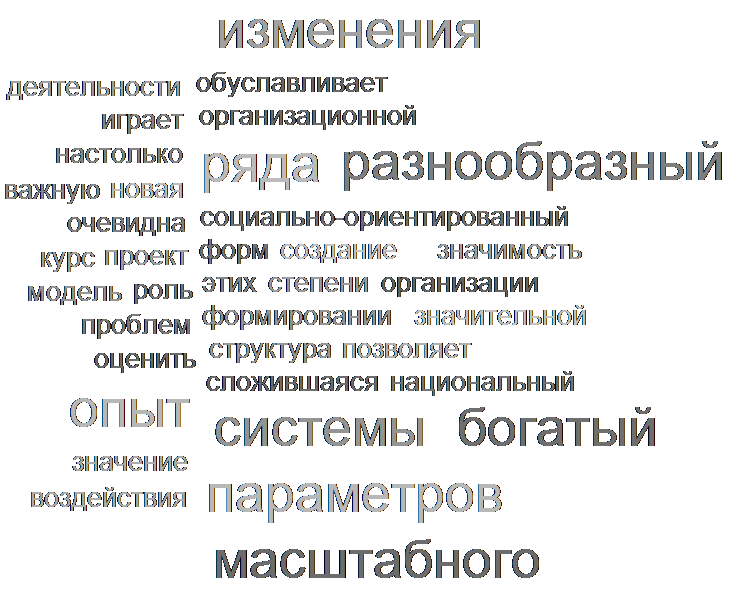
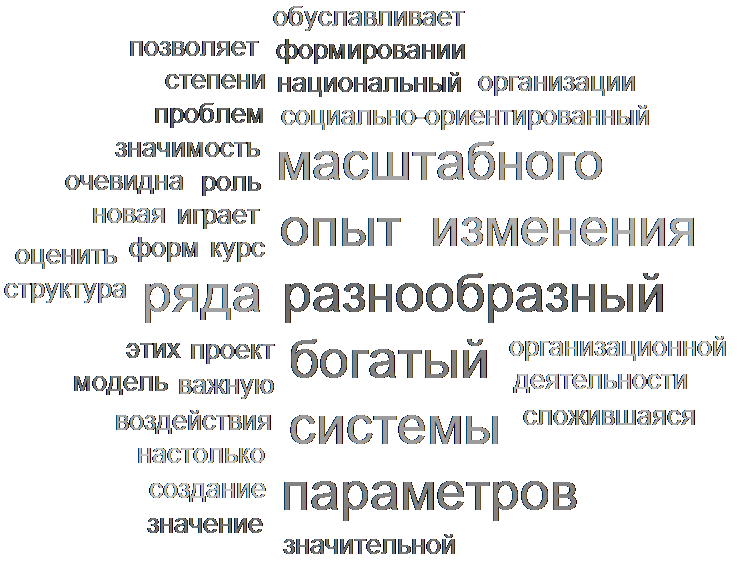
fix

Changed region(s): [[0.0, 0.0, 0.9986, 0.9964]]

diff --git a/TagCloud/TagCloudServicesFactory.cs b/TagCloud/TagCloudServicesFactory.cs
@@ -7,6 +7,8 @@ using TagCloud.WordFilters;
 using TagCloudApplication;
 using TagCloudTests;
 using ColorConverter = TagCloud.Extensions.ColorConverter;
+using System.Linq;
+using System.Reflection;
 
 namespace TagCloud;
 
@@ -31,14 +33,18 @@ public static class TagCloudServicesFactory
                 provider.Resolve<IColorSelector>()
             )).As<ICloudDrawer>().SingleInstance();
         
-        if (options.ColorScheme == "gray")
-            builder.RegisterType<RandomColorSelector>().As<IColorSelector>().SingleInstance();
-        if (options.ColorScheme == "random")
-            builder.RegisterType<GrayScaleColorSelector>().As<IColorSelector>().SingleInstance();
-        else if (ColorConverter.TryConvert(options.ColorScheme, out var color))
-            builder.Register(provider => new ConstantColorSelector(color)).As<IColorSelector>().SingleInstance();
-        else
-            builder.Register(provider => new ConstantColorSelector(Color.Black)).As<IColorSelector>().SingleInstance();
+        builder.RegisterAssemblyTypes(Assembly.GetExecutingAssembly())
+            .Where(t => t.IsAssignableTo<IColorSelector>())
+            .As<IColorSelector>()
+            .SingleInstance();
+
+        builder.Register<IColorSelector>(context =>
+        {
+            var colorSelectors = context.Resolve<IEnumerable<IColorSelector>>();
+            var selector = colorSelectors.FirstOrDefault(s => s.IsMatch(options));
+            
+            return selector ?? new ConstantColorSelector(Color.Black);
+        }).SingleInstance(); //при ресолве будет использоваться последний зарегистрированный класс
 
         builder.RegisterType<MyStemWordFilter>().As<IWordFilter>().SingleInstance();
         

diff --git a/TagCloud/Option.cs b/TagCloud/Option.cs
@@ -10,7 +10,7 @@ public class Options
     [Option('s', "source", HelpText = "Set source path.", Default = @"..\..\..\Results\text.txt")]
     public string SourcePath { get; set; }
     
-    [Option('n', "name", HelpText = "Set name.", Default = "default.png")]
+    [Option('n', "name", HelpText = "Set name of result picture.", Default = "default.png")]
     public string Name { get; set; }
         
     [Option('c', "color", 
@@ -18,11 +18,12 @@ public class Options
                    Set color.
                    random - Random colors
                    #F0F0F0 - Color hex code
+                   gray - grayscale
                    """, 
         Default = "random")]
     public string ColorScheme { get; set; }
     
-    [Option('f', "font", HelpText = "Set font.", Default = "Arial")]
+    [Option('f', "font", HelpText = "Set font family", Default = "Arial")]
     public string Font { get; set; }
     
     [Option("size", HelpText = "Set font size.", Default = 20)]
@@ -49,7 +50,7 @@ public class Options
         Default = new[] { "PR", "PART", "CONJ", "INTJ" })]
     public string[] UnusedPartsOfSpeech { get; set; }
     
-    [Option("density", HelpText = "Set density.", Default = 0.1)]
+    [Option("density", HelpText = "Set spiral step.", Default = 0.1)]
     public double Density { get; set; }
     
     [Option("width", HelpText = "Set width.", Default = 100)]

diff --git a/TagCloudTests/TestData/FileTextHandlerTestData.cs b/TagCloudTests/TestData/FileTextHandlerTestData.cs
@@ -10,20 +10,19 @@ public class FileTextHandlerTestData
         {
             yield return new TestCaseData(
                     "два\nодин\nдва\nа\nтри\nтри\nтри",
-                    new List<TextData>
+                    new Dictionary<string, int>()
                     {
-                        new() { Value = "один", Weight = 1 }, new() { Value = "два", Weight = 2 },
-                        new() { Value = "три", Weight = 3 }
+                        { "один", 1 }, { "два", 2 }, { "три", 3 }
                     }
                 )
                 .SetName("ShouldExcludeConjAndNotExcludeOtherWords");
-            yield return new TestCaseData("и а или", new List<TextData>())
+            yield return new TestCaseData("и а или", new Dictionary<string, int>())
                 .SetName("ShouldExcludeAllConj");
             yield return new TestCaseData(
                     "КАПС\nКаПС\nКАПс",
-                    new List<TextData>
+                    new Dictionary<string, int>()
                     {
-                        new() { Value = "капс", Weight = 3 }
+                        { "капс", 3 }
                     }
                 )
                 .SetName("ShouldTransformToLowerCase");

diff --git a/TagCloudTests/ColorConverterTests.cs b/TagCloudTests/ColorConverterTests.cs
@@ -1,16 +1,25 @@
 using System.Drawing;
-using TagCloudTests.TestData;
 using ColorConverter = TagCloud.Extensions.ColorConverter;
 
 namespace TagCloudTests;
 
 public class ColorConverterTests
 {
-    [TestCaseSource(typeof(ColorConverterTestData), nameof(ColorConverterTestData.RightCases))]
+    public static IEnumerable<TestCaseData> RightCases
+    {
+        get
+        {
+            yield return new TestCaseData("#FFFFFF").Returns(Color.FromArgb(255, 255, 255));
+            yield return new TestCaseData("#FF0000").Returns(Color.FromArgb(255, 0, 0));
+            yield return new TestCaseData("#808080").Returns(Color.FromArgb(128, 128, 128));
+            yield return new TestCaseData("#123456").Returns(Color.FromArgb(18, 52, 86));
+        }
+    }
+
+    [TestCaseSource(typeof(ColorConverterTests), nameof(RightCases))]
     public Color Converter_ShouldConvertStringToColor_WhenStringInRightFormat(string hexString)
     {
-        if (ColorConverter.TryConvert(hexString, out var color))
-            return color;
-        throw new Exception();
+        ColorConverter.TryConvert(hexString, out var color).Should().BeTrue();
+        return color;
     }
 }

diff --git a/TagCloud/WordFilters/MyStemWordFilter.cs b/TagCloud/WordFilters/MyStemWordFilter.cs
@@ -14,13 +14,14 @@ public class MyStemWordFilter : IWordFilter
         "INTJ" // междометие
     };
 
-    public IEnumerable<TextData> ExcludeWords(IEnumerable<TextData> data)
+    public Dictionary<string, int> ExcludeWords(Dictionary<string, int> counts)
     {
         var stem = new MyStem();
         stem.Parameters = "-lig";
-        foreach (var word in data)
+        var newCounts = new Dictionary<string, int>();
+        foreach (var (word, count) in counts)
         {
-            var analysis = stem.Analysis(word.Value);
+            var analysis = stem.Analysis(word);
             if (string.IsNullOrEmpty(analysis))
                 continue;
 
@@ -32,7 +33,9 @@ public class MyStemWordFilter : IWordFilter
 
             if (partsOfSpeech.Any(ForbidenSpeechParts.Contains))
                 continue;
-            yield return word;
+            newCounts.Add(word, count);
         }
+
+        return newCounts;
     }
 }

diff --git a/TagCloud/Extensions/ColorConverter.cs b/TagCloud/Extensions/ColorConverter.cs
@@ -8,14 +8,23 @@ public static class ColorConverter
     public static bool TryConvert(string hexString, out Color color)
     {
         color = default;
-        var colorHexRegExp = new Regex(@"^#([A-Fa-f0-9]{6})$");
+        var colorHexRegExp = new Regex(@"^#([A-Fa-f0-9]{6}|[A-Fa-f0-9]{3})$");
+        
         if (colorHexRegExp.Count(hexString) != 1)
             return false;
-        var rgbValue = hexString
-            .Replace("#", "")
+
+        var hex = hexString.Replace("#", "");
+        
+        if (hex.Length == 3)
+        {
+            hex = string.Concat(hex.Select(c => $"{c}{c}"));
+        }
+        
+        var rgbValue = hex
             .Chunk(2)
             .Select(chars => Convert.ToInt32(new string(chars), 16))
             .ToArray();
+            
         color = Color.FromArgb(rgbValue[0], rgbValue[1], rgbValue[2]);
         return true;
     }

diff --git a/TagCloud/TextHandlers/FileTextHandler.cs b/TagCloud/TextHandlers/FileTextHandler.cs
@@ -14,11 +14,11 @@ public class FileTextHandler : ITextHandler
         this.filter = filter;
     }
 
-    public IEnumerable<TextData> Handle()
+    public Dictionary<string,int> Handle()
     {
         var wordCounts = new Dictionary<string, int>();
         using var sr = new StreamReader(stream);
-
+        
         while (!sr.EndOfStream)
         {
             var word = sr.ReadLine()?.ToLower();
@@ -28,9 +28,8 @@ public class FileTextHandler : ITextHandler
             wordCounts[word]++;
         }
 
-        var data = wordCounts.Select(pair => new TextData() { Value = pair.Key, Weight = pair.Value });
-        data = filter.ExcludeWords(data);
+        wordCounts = filter.ExcludeWords(wordCounts);
 
-        return data;
+        return wordCounts;
     }
 }

diff --git a/TagCloud/TagCloudGenerator.cs b/TagCloud/TagCloudGenerator.cs
@@ -21,17 +21,16 @@ public class TagCloudGenerator
     public void Generate()
     {
         var rectangles = new List<TextRectangle>();
-
-        foreach (var word in handler.Handle().OrderByDescending(pair => pair.Value))
+        
+        foreach (var (word, count) in handler.Handle().OrderByDescending(pair => pair.Value))
         {
-            var (size, font) = measurer.GetTextRectangleSize(word.Value, word.Weight);
+            var (size, font) = measurer.GetTextRectangleSize(word, count);
             rectangles.Add(new TextRectangle(
                 layouter.PutNextRectangle(size),
-                word.Value,
+                word,
                 font
             ));
         }
-
         drawer.Draw(rectangles);
     }
 }

diff --git a/TagCloud/ColorSelectors/ConstantColorSelector.cs b/TagCloud/ColorSelectors/ConstantColorSelector.cs
@@ -1,15 +1,19 @@
 using System.Drawing;
+using TagCloudApplication;
 using TagCloudTests;
+using ColorConverter = TagCloud.Extensions.ColorConverter;
 
 namespace TagCloud;
 
-public class ConstantColorSelector : IColorSelector
+public class ConstantColorSelector(Color color) : IColorSelector
 {
-    private Color color;
-    public ConstantColorSelector(Color color)
-    {
-        this.color = color;
-    }
+    private Color _color = color;
+    public Color SetColor() => _color;
 
-    public Color SetColor() => color;
+    public bool IsMatch(Options options)
+    {
+        if (!ColorConverter.TryConvert(options.ColorScheme, out var convertedColor)) return false;
+        _color = convertedColor;
+        return true;
+    }
 }

diff --git a/TagCloudTests/TestData/ColorConverterTestData.cs b/TagCloudTests/TestData/ColorConverterTestData.cs
@@ -1,18 +1,1 @@
-using System.Drawing;
-
-namespace TagCloudTests.TestData;
-
-public class ColorConverterTestData
-{
-    public static IEnumerable<TestCaseData> RightCases
-    {
-        get
-        {
-            yield return new TestCaseData("#FFFFFF").Returns(Color.FromArgb(255, 255, 255));
-            yield return new TestCaseData("#FF0000").Returns(Color.FromArgb(255, 0, 0));
-            yield return new TestCaseData("#808080").Returns(Color.FromArgb(128, 128, 128));
-            yield return new TestCaseData("#123456").Returns(Color.FromArgb(18, 52, 86));
-        }
-    }
-    
-}
+

diff --git a/TagCloudTests/TagCloudDrawerTests.cs b/TagCloudTests/TagCloudDrawerTests.cs
@@ -54,7 +54,7 @@ public class TagCloudDrawerTests
     }
 
     [Test]
-    public void DrawOneTundredRectangles()
+    public void DrawOneHundredRectangles()
     {
         var testRect = new TextRectangle(
             new Rectangle(0, 0, 1, 1),
@@ -65,7 +65,7 @@ public class TagCloudDrawerTests
         drawer.Draw(textRectangles);
         directory
             .EnumerateFiles()
-            .Count(file => file.Name.Contains(nameof(DrawOneTundredRectangles)))
+            .Count(file => file.Name.Contains(nameof(DrawOneHundredRectangles)))
             .Should()
             .Be(1);
     }

diff --git a/TagCloud/ColorSelectors/RandomColorSelector.cs b/TagCloud/ColorSelectors/RandomColorSelector.cs
@@ -1,8 +1,10 @@
 using System.Drawing;
+using TagCloudApplication;
+using TagCloudTests;
 
 namespace TagCloud.ColorSelectors;
 
-public class RandomColorSelector
+public class RandomColorSelector : IColorSelector
 {
     private readonly Random random = new(DateTime.Now.Microsecond);
 
@@ -11,5 +13,6 @@ public class RandomColorSelector
         var color = random.Next(0, 255);
         return Color.FromArgb(random.Next(0, 255), random.Next(0, 255), random.Next(0, 255));
     }
-    
+
+    public bool IsMatch(Options options) => options.ColorScheme == "random";
 }
